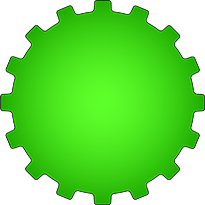
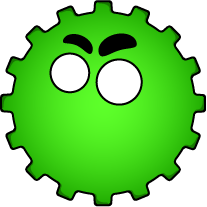
an afternoon's work

Changed region(s): [[0.0, 0.0, 1.0, 1.0], [0.2341, 0.1463, 0.7024, 0.5268]]

diff --git a/main.js b/main.js
@@ -52,20 +52,23 @@ function gameInit() {
     [0,-1000],[0,1000],[-750,-270], [-750,0], [-750, 270],[750,-270],[750,270]
   ]
 
-  let puzzlePegs = [[-41,273] ,[-70,90] , [-90,-77], [10,-180], [135,-293] ];
+  let puzzlePegs = [[-41,278] ,[-70,90] , [-90,-77], [10,-180], [135,-293] ];
 
   for (let [x,y] of [...fixedpegs,...puzzlePegs] ) {
     level.pegs.push(makePeg(x,y));
   }
   let pegs=level.pegs;
 
-  let top = makeCog(pegs[0],100);
   let bottom = makeCog(pegs[1],100);
-  top.fixed=true;
-  bottom.fixed=true;
+  let top = makeCog(pegs[0],100);
 
-  level.cogs.push(top);
+  top.fixed=true;
+  bottom.direction=1;
+  bottom.fixed=true;
+  level.bottom=bottom;
+  level.top=top;
   level.cogs.push(bottom);
+  level.cogs.push(top);
 
   level.cogs.push(makeCog(pegs[2],8));
   level.cogs.push(makeCog(pegs[3],12));
@@ -107,7 +110,6 @@ function handleMouseDown(e) {
     dragOffset={dx,dy};
     dragging=cogUnderMouse;
 
-    console.log({dragging,dx,dy});
   }
 }
 
@@ -175,6 +177,8 @@ function update() {
 }
 
 function move() {
+ scanCogs();
+
  for (let e of [...level.pegs,...level.cogs]) {
     e.move();
   }
@@ -193,27 +197,62 @@ function draw() {
   
   ctx.translate(canvas.width/2,canvas.height/2);
 
+  ctx.save();
+  
+  ctx.translate(0,1000);
+  let qx = 434;
+  let qy = 606;
+  ctx.rotate(level.bottom.getAngle()%(Math.PI/50))
+  ctx.drawImage(Assets.cog100,-qx,-qy);
+
+  ctx.restore();
+  ctx.save();
+  ctx.translate(0,-1000);
+  ctx.rotate(level.top.getAngle()%(Math.PI/50)+Math.PI);
+  ctx.drawImage(Assets.cog100,-qx,-qy);
+
+  ctx.restore();
+  
   for (let e of [...level.pegs,...level.cogs]) {
     e.draw();
   }
   ctx.restore();  
 }
 
+function cogTouching(a,b) {
+  let apos=a.getPosition();
+  let bpos=b.getPosition();
+  let d=distance(apos,bpos);
+  let want= a.radius+b.radius;
+  let e = d-want;
+  return (Math.sqrt(e*e)  < 15 );
+}
 
-function makePeg(x,y) {
-  function move(){}
-  function draw() {
-    ctx.fillStyle="#00f"
-    ctx.beginPath();
-    ctx.ellipse(x,y,5,5,0,0,Math.PI*2);
-    ctx.fill();
-    ctx.polygon(x,y,10,20,0);
-    ctx.stroke();
+function scanCogs() {
+  for(let a of level.cogs) {
+    a.direction=0;
   }
-  function getPosition() {
-    return {x,y}
+  level.bottom.direction=1;
+
+  let movingCogs=[level.bottom];
+
+  function linkNextCog() {
+    for (let a of level.cogs) {
+      if (a.direction==0) continue;
+        for (let b of level.cogs) {
+          if (b.direction==0) {
+            if (cogTouching(a,b)) {
+              b.direction=-a.direction;
+              return true;
+            } 
+          }
+        }
+      }
+    return false;
   }
-  return {move,draw,getPosition}
+  
+  while (linkNextCog()) {};
+
 }
 
 function drawSprite(image,x,y,frame=0) {
@@ -238,6 +277,26 @@ function drawSprite(image,x,y,frame=0) {
 
 }
 
+function makePeg(x,y) {
+  function move(){}
+  function draw() {
+    drawSprite(Assets.peg,x,y);
+/*
+    ctx.fillStyle="#00f"
+    ctx.beginPath();
+    ctx.ellipse(x,y,5,5,0,0,Math.PI*2);
+    ctx.fill();
+    ctx.polygon(x,y,10,20,0);
+    ctx.stroke();
+*/    
+  }
+  function getPosition() {
+    return {x,y}
+  }
+  return {move,draw,getPosition}
+}
+
+
 
 function makeCog(peg,teeth) {
   let mouthFrame=0; 
@@ -245,9 +304,10 @@ function makeCog(peg,teeth) {
   let radius = (teeth*37.7)/(Math.PI*2);
   let eyeSize = radius/10;
   let rotation =(1/radius);
-  
-  if (Math.random()<0.5) rotation=-rotation; 
-  let self = {move,draw,getPosition,radius,setPeg,getPeg};
+
+  //if (Math.random()<0.5) rotation=-rotation; 
+  let self = {move,draw,getPosition,radius,setPeg,getPeg,getAngle};
+  self.direction=0;
   let ratio = (radius+20)/radius;
   //let teeth = Math.floor((radius*Math.PI*2)/38);
   var image; 
@@ -255,7 +315,9 @@ function makeCog(peg,teeth) {
     image = cogImage[teeth];//scaledImage(cogImage[teeth],radius*2.5,radius*2.5);
   } else image = scaledImage(Assets.gear2,radius*2,radius*2);
   
-
+  function getAngle() {
+    return angle;
+  }
   function getPosition() {
     if (dragging == self) {
       let {x,y}=mouseToWorld(mouse);
@@ -267,20 +329,17 @@ function makeCog(peg,teeth) {
       return peg.getPosition();
     }
   }
-  function makeEyeBall(x,y) {
-    let base=blankCanvas(eyeSize*2);
+  function makeEyeBall(white,iris,x,y) {
+    let base = workingImage(white);
     let c=base.getContext("2d")
-
-    c.fillStyle="red";
-
-    c.polygon(base.width/2,base.height/2,eyeSize,20);
-    c.fill()
     c.globalCompositeOperation="source-atop";
-    let eye=Assets.eyeball;
-    c.drawImage(eye,(base.width-eye.width)/2 +x, (base.height-eye.height)/2 +y); 
+    c.translate((base.width)/2+x+iris.x,(base.height)/2 +y+iris.y)
+    c.rotate(-angle);
+    c.drawImage(iris.image,-(iris.image.width)/2, -(iris.image.height)/2); 
     return base;
   }
   function drawAt(x,y) {
+
     ctx.save();
     ctx.translate(x,y);
     ctx.rotate(angle); 
@@ -288,7 +347,7 @@ function makeCog(peg,teeth) {
     ctx.fillStyle="rgba(0,255,255,0.2)";
     ctx.beginPath();
     ctx.star(0,0,radius,ratio,teeth,0);
-    ctx.fill();  
+    //ctx.fill();  
     if (cogUnderMouse==self) {
       ctx.lineWidth=3;
       ctx.strokeStyle="orange";
@@ -296,6 +355,20 @@ function makeCog(peg,teeth) {
     }
 
     drawSprite(image,0,0);
+
+
+      let parts = cogParts[teeth];
+
+    if (parts ) {
+      let leftEye = makeEyeBall(parts.leftWhite.image, parts.leftIris,Math.sin(angle*8)*eyeSize/3,3+Math.cos(angle*8)*eyeSize/3);
+      drawSprite(leftEye,parts.leftWhite.x,parts.leftWhite.y)
+      let rightEye = makeEyeBall(parts.leftWhite.image, parts.rightIris,Math.sin(angle*-9)*eyeSize/3,3+Math.cos(angle*-9)*eyeSize/3);
+      drawSprite(rightEye,parts.rightWhite.x,parts.rightWhite.y)
+
+      drawSprite(parts.mouth.image,parts.mouth.x,parts.mouth.y);
+    }
+
+/*
     //drawSprite(Assets.png8,0,0);
     drawSprite(Assets.blarg,0,radius/2,mouthFrame);
     //ctx.drawImage(image,-image.width/2,-image.height/2);
@@ -304,7 +377,7 @@ function makeCog(peg,teeth) {
     drawSprite(leftEye,-radius/2,-radius/3)
     let rightEye = makeEyeBall(Math.sin(angle*4)*eyeSize/3,3+Math.cos(angle*4)*eyeSize/3);
     drawSprite(leftEye,radius/2,-radius/2)
-    
+*/    
 /*
     ctx.fillStyle="rgba(250,250,192,1)";
     ctx.polygon(-radius/2,-radius/3,eyeSize,20);
@@ -331,7 +404,7 @@ function makeCog(peg,teeth) {
     return peg;
   }
   function move() {
-    angle+=rotation;
+    angle+=rotation*self.direction;
     mouthFrame+=1;
     if (mouthFrame >9){mouthFrame=0}
   }

diff --git a/assets.js b/assets.js
@@ -7,7 +7,35 @@ imageList = [
     "cog20.png",
     "cog100.png",
     "eyeball.png",
+    "cog100.png",
 
+    "8_left_iris.png",
+    "8_left_white.png",
+    "8_right_iris.png",
+    "8_right_white.png",
+
+    "12_left_iris.png",
+    "12_left_white.png",
+    "12_right_iris.png",
+    "12_right_white.png",
+
+    "16_left_iris.png",
+    "16_right_iris.png",
+    "16_left_white.png",
+    "16_right_white.png",
+
+    "20_left_iris.png",
+    "20_right_iris.png",
+    "20_left_white.png",
+    "20_right_white.png",
+
+
+    "8-12_mouth_close.png",
+    "8-12_mouth_open.png",
+    "16-20_mouth_close.png",
+    "16-20_mouth_open.png",
+
+    "peg.png",
     "blarg.png|10|1"
 ].map(imageDetailsFromString);
 
@@ -33,13 +61,61 @@ function imageDetailsFromString(s) {
     return {name,framesWide,framesHigh}
 }
 
+var cogParts =[];
 function loadAssets() {
+    
     for (let i of imageList) {
         
         let image = loadImage(i.name);
         image.framesWide=i.framesWide;
         image.framesHigh=i.framesHigh;
     }
+
+    function pos(name,x,y) {
+        let image = Assets[name];
+        return {image,x,y}
+    }
+
+    let cog8Parts = {
+        leftIris : pos("8_left_iris",0,-2),
+        rightIris : pos("8_right_iris",0,-2),
+        leftWhite : pos("8_left_white",-13,-7),
+        rightWhite : pos("8_right_white",18,-4),
+        mouth: pos("8-12_mouth_close",-3,17),
+    }
+    let cog12Parts = {
+        leftIris : pos("12_left_iris",0,-2),
+        rightIris : pos("12_right_iris",0,-2),
+        leftWhite : pos("12_left_white",-25,-19),
+        rightWhite : pos("12_right_white",23,-14),
+        mouth: pos("8-12_mouth_close",-1,19),
+    }
+
+    let cog16Parts = {
+        leftIris : pos("16_left_iris",0,-3),
+        rightIris : pos("16_right_iris",0,-3),
+        leftWhite : pos("16_left_white",-33,-30),
+        rightWhite : pos("16_right_white",16,-21),
+        mouth: pos("16-20_mouth_close",-1,37),
+
+    }
+    
+    let cog20Parts = {
+        leftIris : pos("20_left_iris",-0,-3),
+        rightIris : pos("20_right_iris",0,-3),
+        leftWhite : pos("20_left_white",-35,-36),
+        rightWhite : pos("20_right_white",14,-27),
+        mouth: pos("16-20_mouth_close",+5,36),
+        
+    }
+    
+
+    cogParts[8]=cog8Parts;
+    cogParts[12]=cog12Parts;
+    cogParts[16]=cog16Parts;
+    cogParts[20]=cog20Parts;
+    
+    
 }
 //imageList.forEach(loadImage);
 loadAssets();
